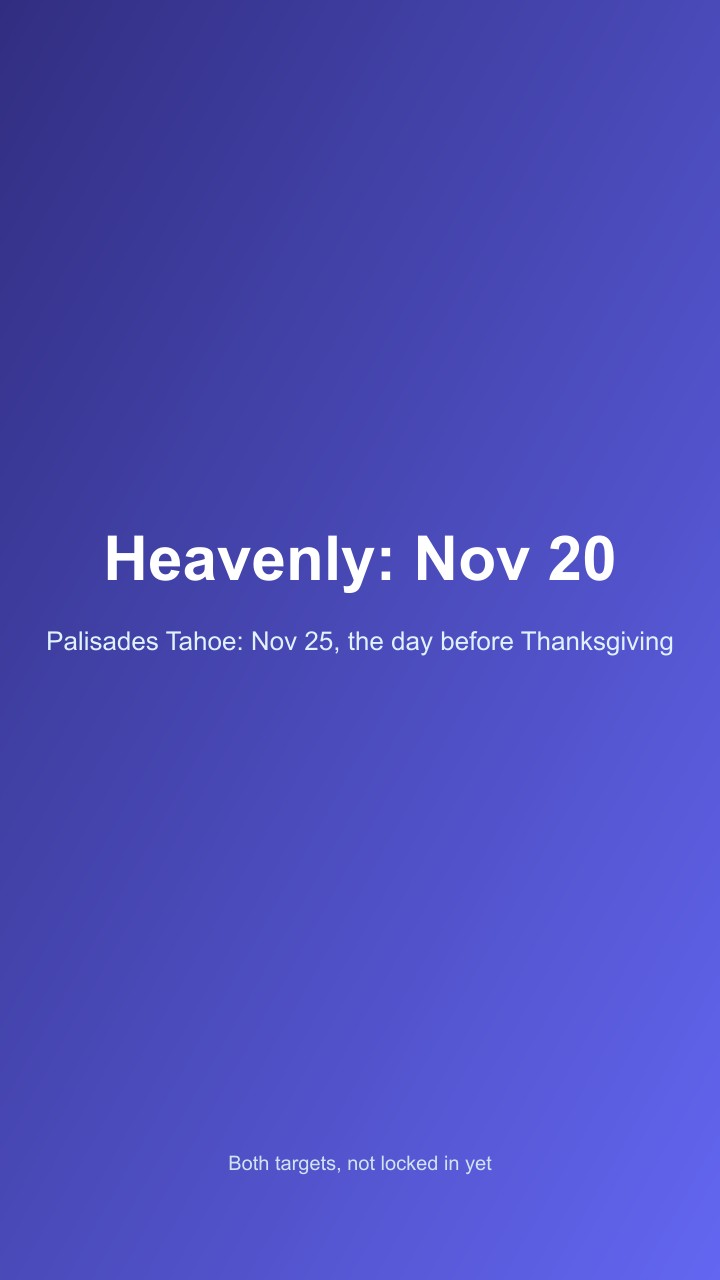
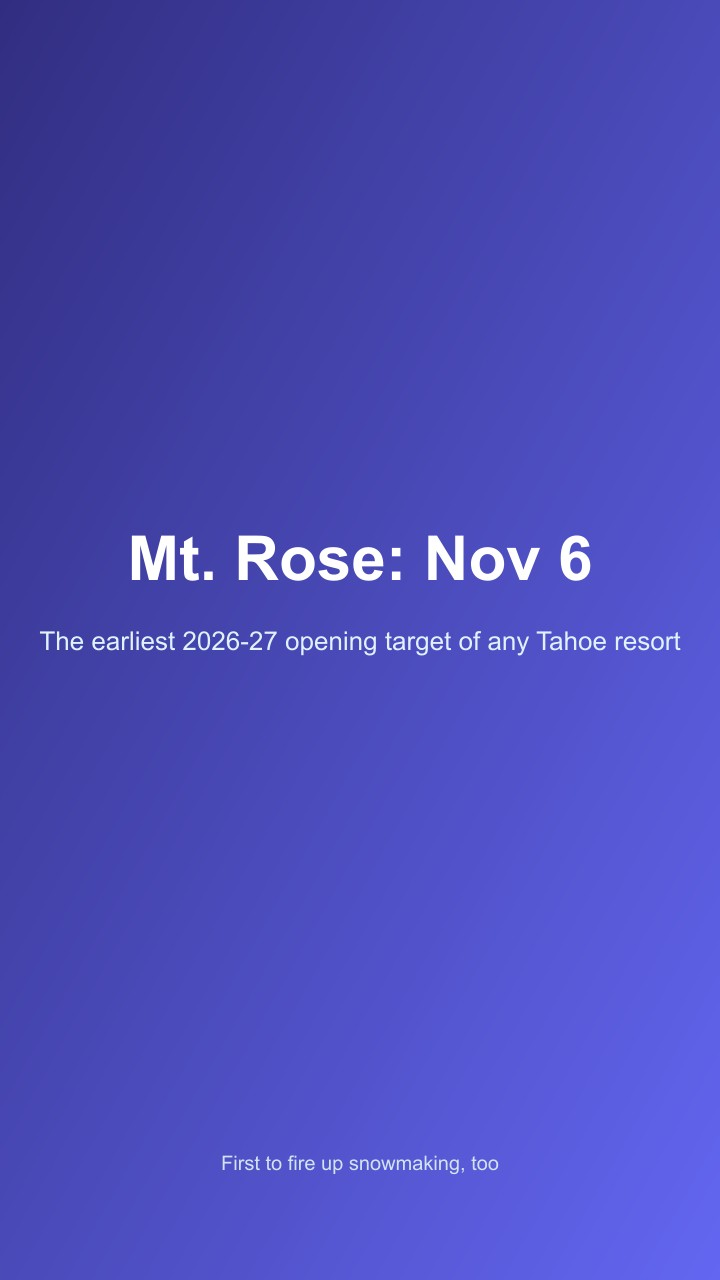
Update sierra-nevada-first-snow-october-2026 with full resort list and Rachel connection
Claude-Session: https://claude.ai/code/session_0137wNLphAPmSsEruyDiu6i5

Changed region(s): [[0.0611, 0.4062, 0.9472, 0.5312], [0.3056, 0.9062, 0.7028, 0.9375]]

diff --git a/lib/web-stories.ts b/lib/web-stories.ts
@@ -2886,9 +2886,9 @@ export const webStories: WebStory[] = [
   {
     slug: "sierra-nevada-first-snow-october-2026",
     postSlug: "sierra-nevada-first-snow-october-2026",
-    title: "Sierra Nevada's First Snow, Plus 2026-27 Opening Dates",
+    title: "Sierra Nevada Snow: It Was Rachel Again, Mt. Rose Opens Nov 6",
     description:
-      "A light dusting hit Sierra Nevada peaks on October 12, 2026. Mammoth targets November 13, Heavenly November 20, Palisades Tahoe November 25.",
+      "Tropical Storm Rachel reached the Sierra Nevada on October 12, 2026. Every Tahoe resort opening date, from Mt. Rose on November 6 to Kirkwood on December 4.",
     pages: [
       {
         image: SN + "story-1.jpg",
@@ -2899,31 +2899,31 @@ export const webStories: WebStory[] = [
       },
       {
         image: SN + "story-2.jpg",
-        alt: "A blue card reading the first dusting, light snow fell on many Sierra Nevada peaks on October 12 2026",
+        alt: "A blue card reading Sierra-at-Tahoe first snow, the only resort with measurable snowfall, October 12 2026",
         kicker: "This week",
-        heading: "The first dusting",
-        text: "Light snow fell on many Sierra Nevada peaks on October 12, 2026.",
+        heading: "Sierra-at-Tahoe: first snow",
+        text: "The only resort with measurable snowfall, October 12, 2026.",
       },
       {
         image: SN + "story-3.jpg",
-        alt: "A dark blue card reading Mammoth November 13, the earliest announced California opening this season",
-        kicker: "Opening targets",
-        heading: "Mammoth: Nov 13",
-        text: "The earliest announced California opening, though last year's date slipped twice.",
+        alt: "A dark blue card reading it's Rachel again, the same tropical storm remnant that hit Montana, Utah, Wyoming, Colorado",
+        kicker: "The connection",
+        heading: "It's Rachel again",
+        text: "Fox Weather flagged the Sierra as a target days earlier.",
       },
       {
         image: SN + "story-4.jpg",
-        alt: "A purple card reading Heavenly November 20, Palisades Tahoe November 25, the day before Thanksgiving",
+        alt: "A purple card reading Mt. Rose November 6, the earliest 2026-27 opening target of any Tahoe resort",
         kicker: "Opening targets",
-        heading: "Heavenly: Nov 20",
-        text: "Palisades Tahoe: Nov 25, the day before Thanksgiving.",
+        heading: "Mt. Rose: Nov 6",
+        text: "The earliest opening target of any Tahoe resort this season.",
       },
       {
         image: SN + "story-5.jpg",
-        alt: "An amber card reading not the Rockies storm, a separate West Coast system in the same week as Montana, Utah, Wyoming, Colorado",
-        kicker: "Not connected",
-        heading: "Not the Rockies storm",
-        text: "A separate West Coast system, same week as our Rockies coverage.",
+        alt: "An amber card reading won't last long, valley highs back in the 80s within days as a dry pattern returns",
+        kicker: "What's next",
+        heading: "Won't last long",
+        text: "This week's coating is a preview, not a base.",
       },
       {
         image: SN + "story-6.jpg",
